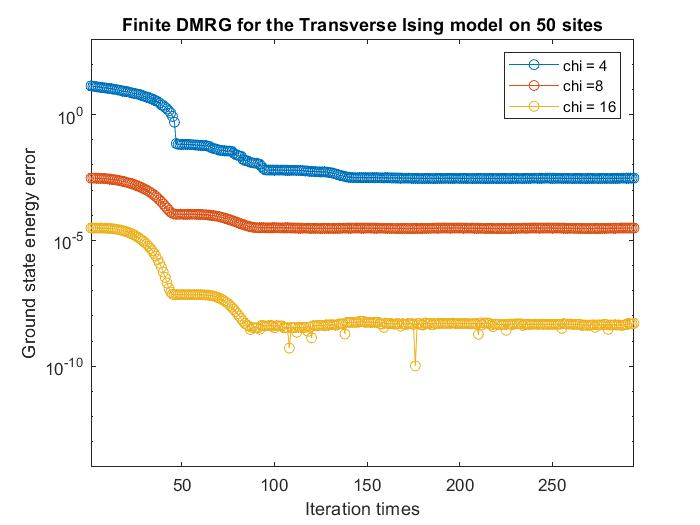
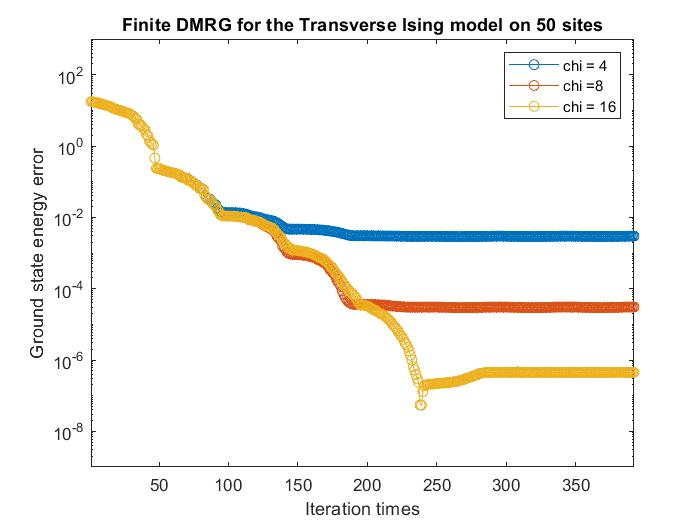
Add files via upload

diff --git a/Web/TN.html b/Web/TN.html
@@ -22,6 +22,7 @@
   background-position:
     center
 }
+
 </style>
 </head>
 
@@ -355,9 +356,11 @@ $$|\psi_0\rangle=\begin{pmatrix}
 -1.11022302462516 \times 10^{-16} \\
 0.0578827258889768
 \end{pmatrix},\;E_0=-4.7588.$$
+
 Construct the density matrix of the ground state
 \(\hat{\rho}=|\psi_0\rangle\langle\psi_0|\) and the partial trace with respect to the enviroment
-$$\hat{\rho}_s=Tr_e(\hat{\rho})=\begin{pmatrix}
+\(\hat{\rho}_s=Tr_e(\hat{\rho})\):
+$$\begin{pmatrix}
 0.863868325140290 & -6.16068231629410 \times 10^{-17} & -6.43615460212374 \times 10^{-17} & 0.215521402309545 \\
 -6.16068231629410 \times 10^{-17} & 0.0671744794788005 & 0.0318876640133076 & -2.58247502971470 \times 10^{-17} \\
 -6.43615460212374 \times 10^{-17} & 0.0318876640133076 & 0.0151843557274623 & -2.00096006810010 \times 10^{-17} \\
@@ -375,7 +378,8 @@ $$\begin{pmatrix}
 0.429036222745096 \\
 -0.903287285182638 \\
 -7.49835273480727 \times 10^{-13}
-\end{pmatrix},\;\begin{pmatrix}
+\end{pmatrix},$$
+$$,\;\begin{pmatrix}
 -1.03143740520239 \times 10^{-16} \\
 -0.903287285182638 \\
 -0.429036222745096 \\
@@ -385,7 +389,7 @@ $$\begin{pmatrix}
 -8.90351313767094 \times 10^{-17} \\
 -3.26463287170708 \times 10^{-16} \\
 0.242065387519222
-\end{pmatrix},$$
+\end{pmatrix}$$
 with eigenvalues $$3.46332325113635\times 10^{-6},\;3.86062578813962\times 10^{-5},0.0823202289483816\;,0.917637701470486$$
 <br>    
 Select two eigenvectors with larger eigenvalues to obtain the truncation operator:
@@ -515,21 +519,170 @@ explained above, the only difference is that the super blocks in
 </center>
 <br>
 <br>
+Suppose that we have 50 sites in the system.
+The MPO has 50 sites also, it can be expressed as 
+$$\hat{H}=\hat{L}\hat{M}\cdots\hat{M}\hat{R},\;\hat{L}=\begin{pmatrix}
+\mathbb{I}\\
+0\\
+0\end{pmatrix},\;\hat{R}=\begin{pmatrix}0\\
+0\\
+\mathbb{I}\end{pmatrix},\;\hat{M}=\begin{pmatrix}
+ \mathbb{I}&\sigma^z&-\sigma^x\\
+ 0&0&-\sigma^z\\
+ 0&0&\mathbb{I}
+\end{pmatrix}.$$
+
+<br>
+<br>
+ Take \(\chi=16\), the MPS will have the size as follows:
+<center>
+<h2>Size Information</h2>
+<table class="outer-table">
+    <tr>
+        <td>
+            <table border="1" cellspacing="0" cellpadding="5">
+                <thead>
+                    <tr>
+                        <th>Index</th>
+                        <th>Size Information</th>
+                    </tr>
+                </thead>
+                <tbody>
+                    <tr><td>1</td><td>1x2x2 double</td></tr>
+                    <tr><td>2</td><td>2x2x4 double</td></tr>
+                    <tr><td>3</td><td>4x2x8 double</td></tr>
+                    <tr><td>4</td><td>8x2x16 double</td></tr>
+                    <tr><td>5</td><td>16x2x16 double</td></tr>
+                    <tr><td>6</td><td>16x2x16 double</td></tr>
+                    <tr><td>7</td><td>16x2x16 double</td></tr>
+                    <tr><td>8</td><td>16x2x16 double</td></tr>
+                    <tr><td>9</td><td>16x2x16 double</td></tr>
+                    <tr><td>10</td><td>16x2x16 double</td></tr>
+                </tbody>
+            </table>
+        </td>
+        <td>
+            <table border="1" cellspacing="0" cellpadding="5">
+                <thead>
+                    <tr>
+                        <th>Index</th>
+                        <th>Size Information</th>
+                    </tr>
+                </thead>
+                <tr><td>11</td><td>16x2x16 double</td></tr>
+<tr><td>12</td><td>16x2x16 double</td></tr>
+<tr><td>13</td><td>16x2x16 double</td></tr>
+<tr><td>14</td><td>16x2x16 double</td></tr>
+<tr><td>15</td><td>16x2x16 double</td></tr>
+<tr><td>16</td><td>16x2x16 double</td></tr>
+<tr><td>17</td><td>16x2x16 double</td></tr>
+<tr><td>18</td><td>16x2x16 double</td></tr>
+<tr><td>19</td><td>16x2x16 double</td></tr>
+<tr><td>20</td><td>16x2x16 double</td></tr>
+</tbody>
+</table>
+</td>
+<td>
+    <table border="1" cellspacing="0" cellpadding="5">
+        <thead>
+            <tr>
+                <th>Index</th>
+                <th>Size Information</th>
+            </tr>
+        </thead>
+        <tbody>
+            <tr><td>21</td><td>16x2x16 double</td></tr>
+            <tr><td>22</td><td>16x2x16 double</td></tr>
+            <tr><td>23</td><td>16x2x16 double</td></tr>
+            <tr><td>24</td><td>16x2x16 double</td></tr>
+            <tr><td>25</td><td>16x2x16 double</td></tr>
+            <tr><td>26</td><td>16x2x16 double</td></tr>
+            <tr><td>27</td><td>16x2x16 double</td></tr>
+            <tr><td>28</td><td>16x2x16 double</td></tr>
+            <tr><td>29</td><td>16x2x16 double</td></tr>
+            <tr><td>30</td><td>16x2x16 double</td></tr>
+        </tbody>
+    </table>
+</td>
+<td>
+    <table border="1" cellspacing="0" cellpadding="5">
+        <thead>
+            <tr>
+                <th>Index</th>
+                <th>Size Information</th>
+            </tr>
+        </thead>
+        <tbody>
+            <tr><td>31</td><td>16x2x16 double</td></tr>
+            <tr><td>32</td><td>16x2x16 double</td></tr>
+            <tr><td>33</td><td>16x2x16 double</td></tr>
+            <tr><td>34</td><td>16x2x16 double</td></tr>
+            <tr><td>35</td><td>16x2x16 double</td></tr>
+            <tr><td>36</td><td>16x2x16 double</td></tr>
+            <tr><td>37</td><td>16x2x16 double</td></tr>
+            <tr><td>38</td><td>16x2x16 double</td></tr>
+            <tr><td>39</td><td>16x2x16 double</td></tr>
+            <tr><td>40</td><td>16x2x16 double</td></tr>
+        </tbody>
+    </table>
+</td>
+<td>
+    <table border="1" cellspacing="0" cellpadding="5">
+        <thead>
+            <tr>
+                <th>Index</th>
+                <th>Size Information</th>
+            </tr>
+        </thead>
+        <tbody>
+            <tr><td>41</td><td>16x2x16 double</td></tr>
+            <tr><td>42</td><td>16x2x16 double</td></tr>
+            <tr><td>43</td><td>16x2x16 double</td></tr>
+            <tr><td>44</td><td>16x2x16 double</td></tr>
+            <tr><td>45</td><td>16x2x16 double</td></tr>
+            <tr><td>46</td><td>16x2x16 double</td></tr>
+                    <tr><td>47</td><td>16x2x8 double</td></tr>
+                    <tr><td>48</td><td>8x2x4 double</td></tr>
+                    <tr><td>49</td><td>4x2x2 double</td></tr>
+                    <tr><td>50</td><td>2x2x1 double</td></tr>
+                </tbody>
+            </table>
+        </td>
+    </tr>
+</table>
+</center>
+<br>
+<br>
+\(\hat{L}\) and \(\hat{R}\) are rank-3 tensors with \(\hat{M}\) is rank-4 tensor. The matrices in the MPS are rank-3 tensors except those 
+on the boundary are rank-2 tensors.
+<br>
+The diagram of \(\langle\Psi|\hat{H}|\Psi\rangle\) can be expressed as:
+<br>
+<br>
 <center> 
-    <img width="800" align="top" src="vmps_transverse_ising_model_different_chi.jpg">
+    <img width="500" align="top" src="tn_transverse_ising.jpg">
+</center>
+<br>
+<br>
+With 4 sweeps (4\(\times\)2\(\times\)50 iterations), we can have the result as follows (assume that the best solution of \(\chi=256\) is the exact solution):
+<br>
+<br>
+<center> 
+    <img width="500" align="top" src="vmps_transverse_ising_model.jpg">
 </center>
 <br>
 <br>
 The value of \(\chi\) does not change the convergence rate of the algorithm but is highly related to the upper bound of its effectiveness.
-<p>
-    \[
-    \begin{array}{cccccccccccccccccccc}
-    1 \times 2 \times 2, & 2 \times 2 \times 4, & 4 \times 2 \times 8, & 8 \times 2 \times 16, & 16 \times 2 \times 16, & 16 \times 2 \times 16, & 16 \times 2 \times 16, & 16 \times 2 \times 16, & 16 \times 2 \times 16,\\
-    16 \times 2 \times 16, & 16 \times 2 \times 16, & 16 \times 2 \times 16, & 16 \times 2 \times 16, & 16 \times 2 \times 16, & 16 \times 2 \times 16, & 16 \times 2 \times 8, & 8 \times 2 \times 4, & 4 \times 2 \times 2,& 2 \times 2 \times 1
-    \end{array}
-    \]
-    
-</p>
+Moreover, the smaller the number of sites is, the more exact the result is. Suppose that we have 
+a twenty-site system, the reslut is as follows:
+<br>
+<br>
+<center> 
+    <img width="500" align="top" src="vmps_transverse_ising_model_twenty.jpg">
+</center>
+<br>
+<br>
+We can see that the error is about \(10^{-8}\) with 4 sweeps.
 </ul>
 </body>
 </html>
